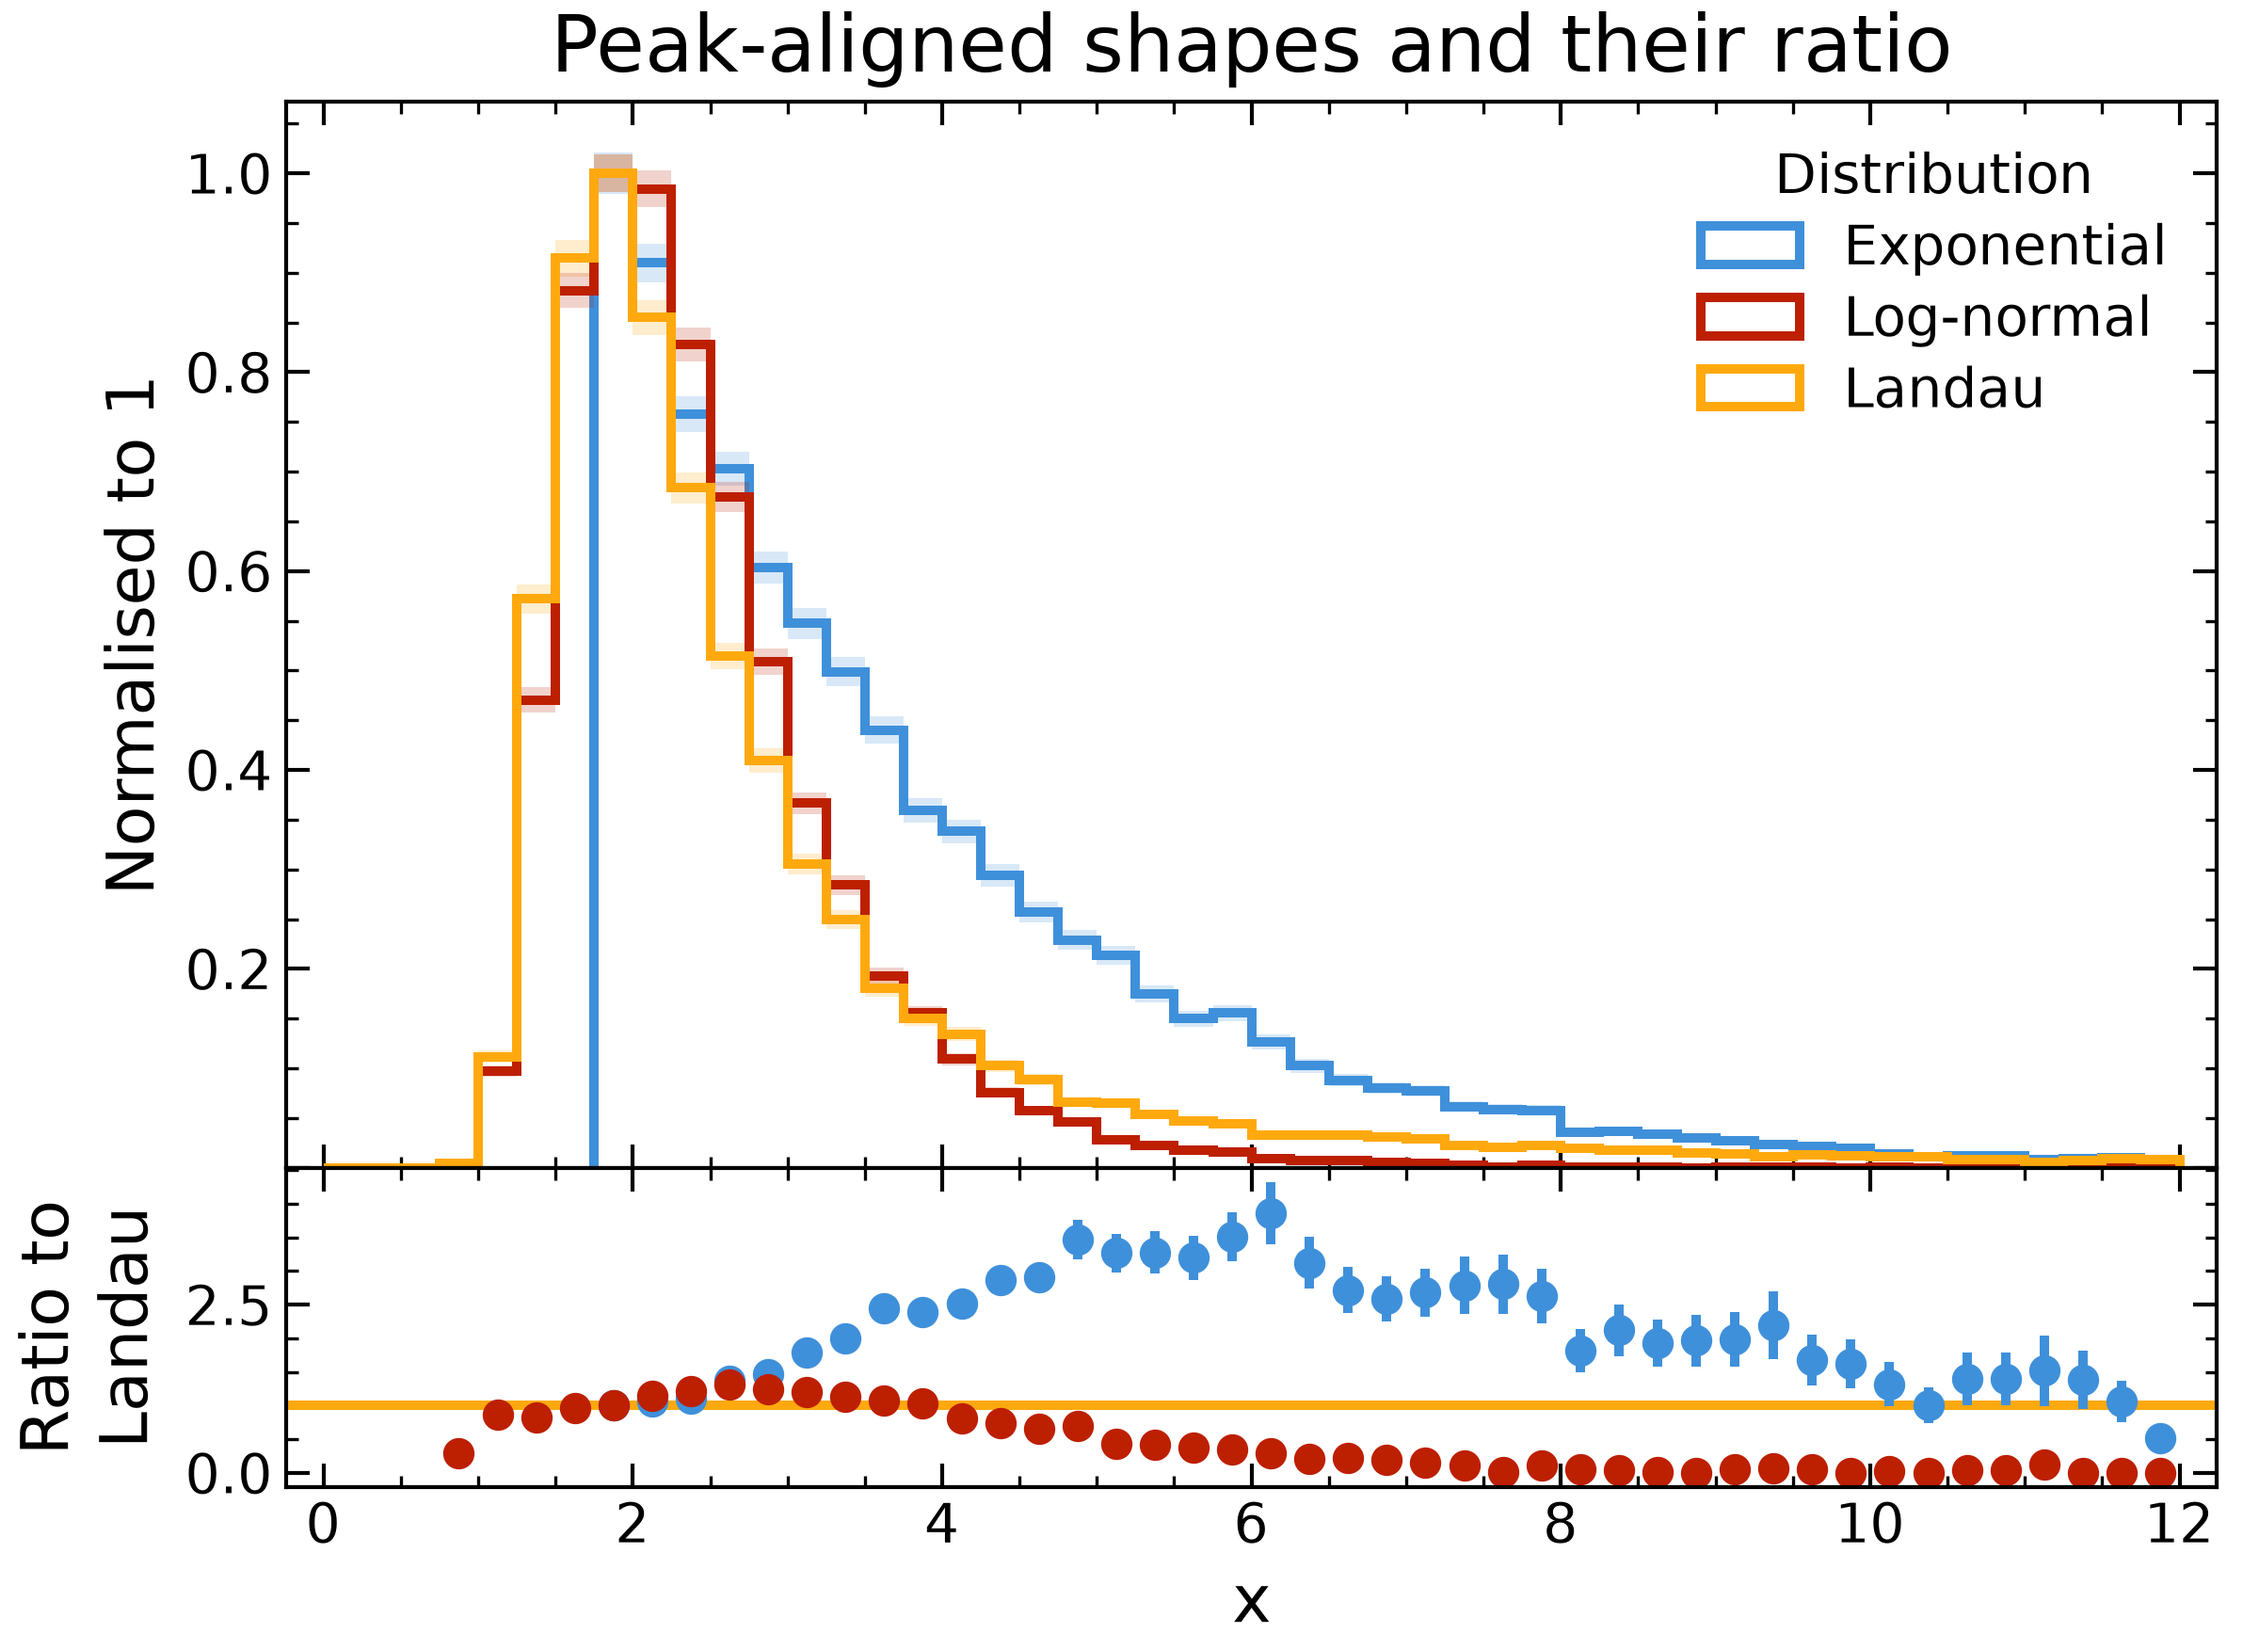
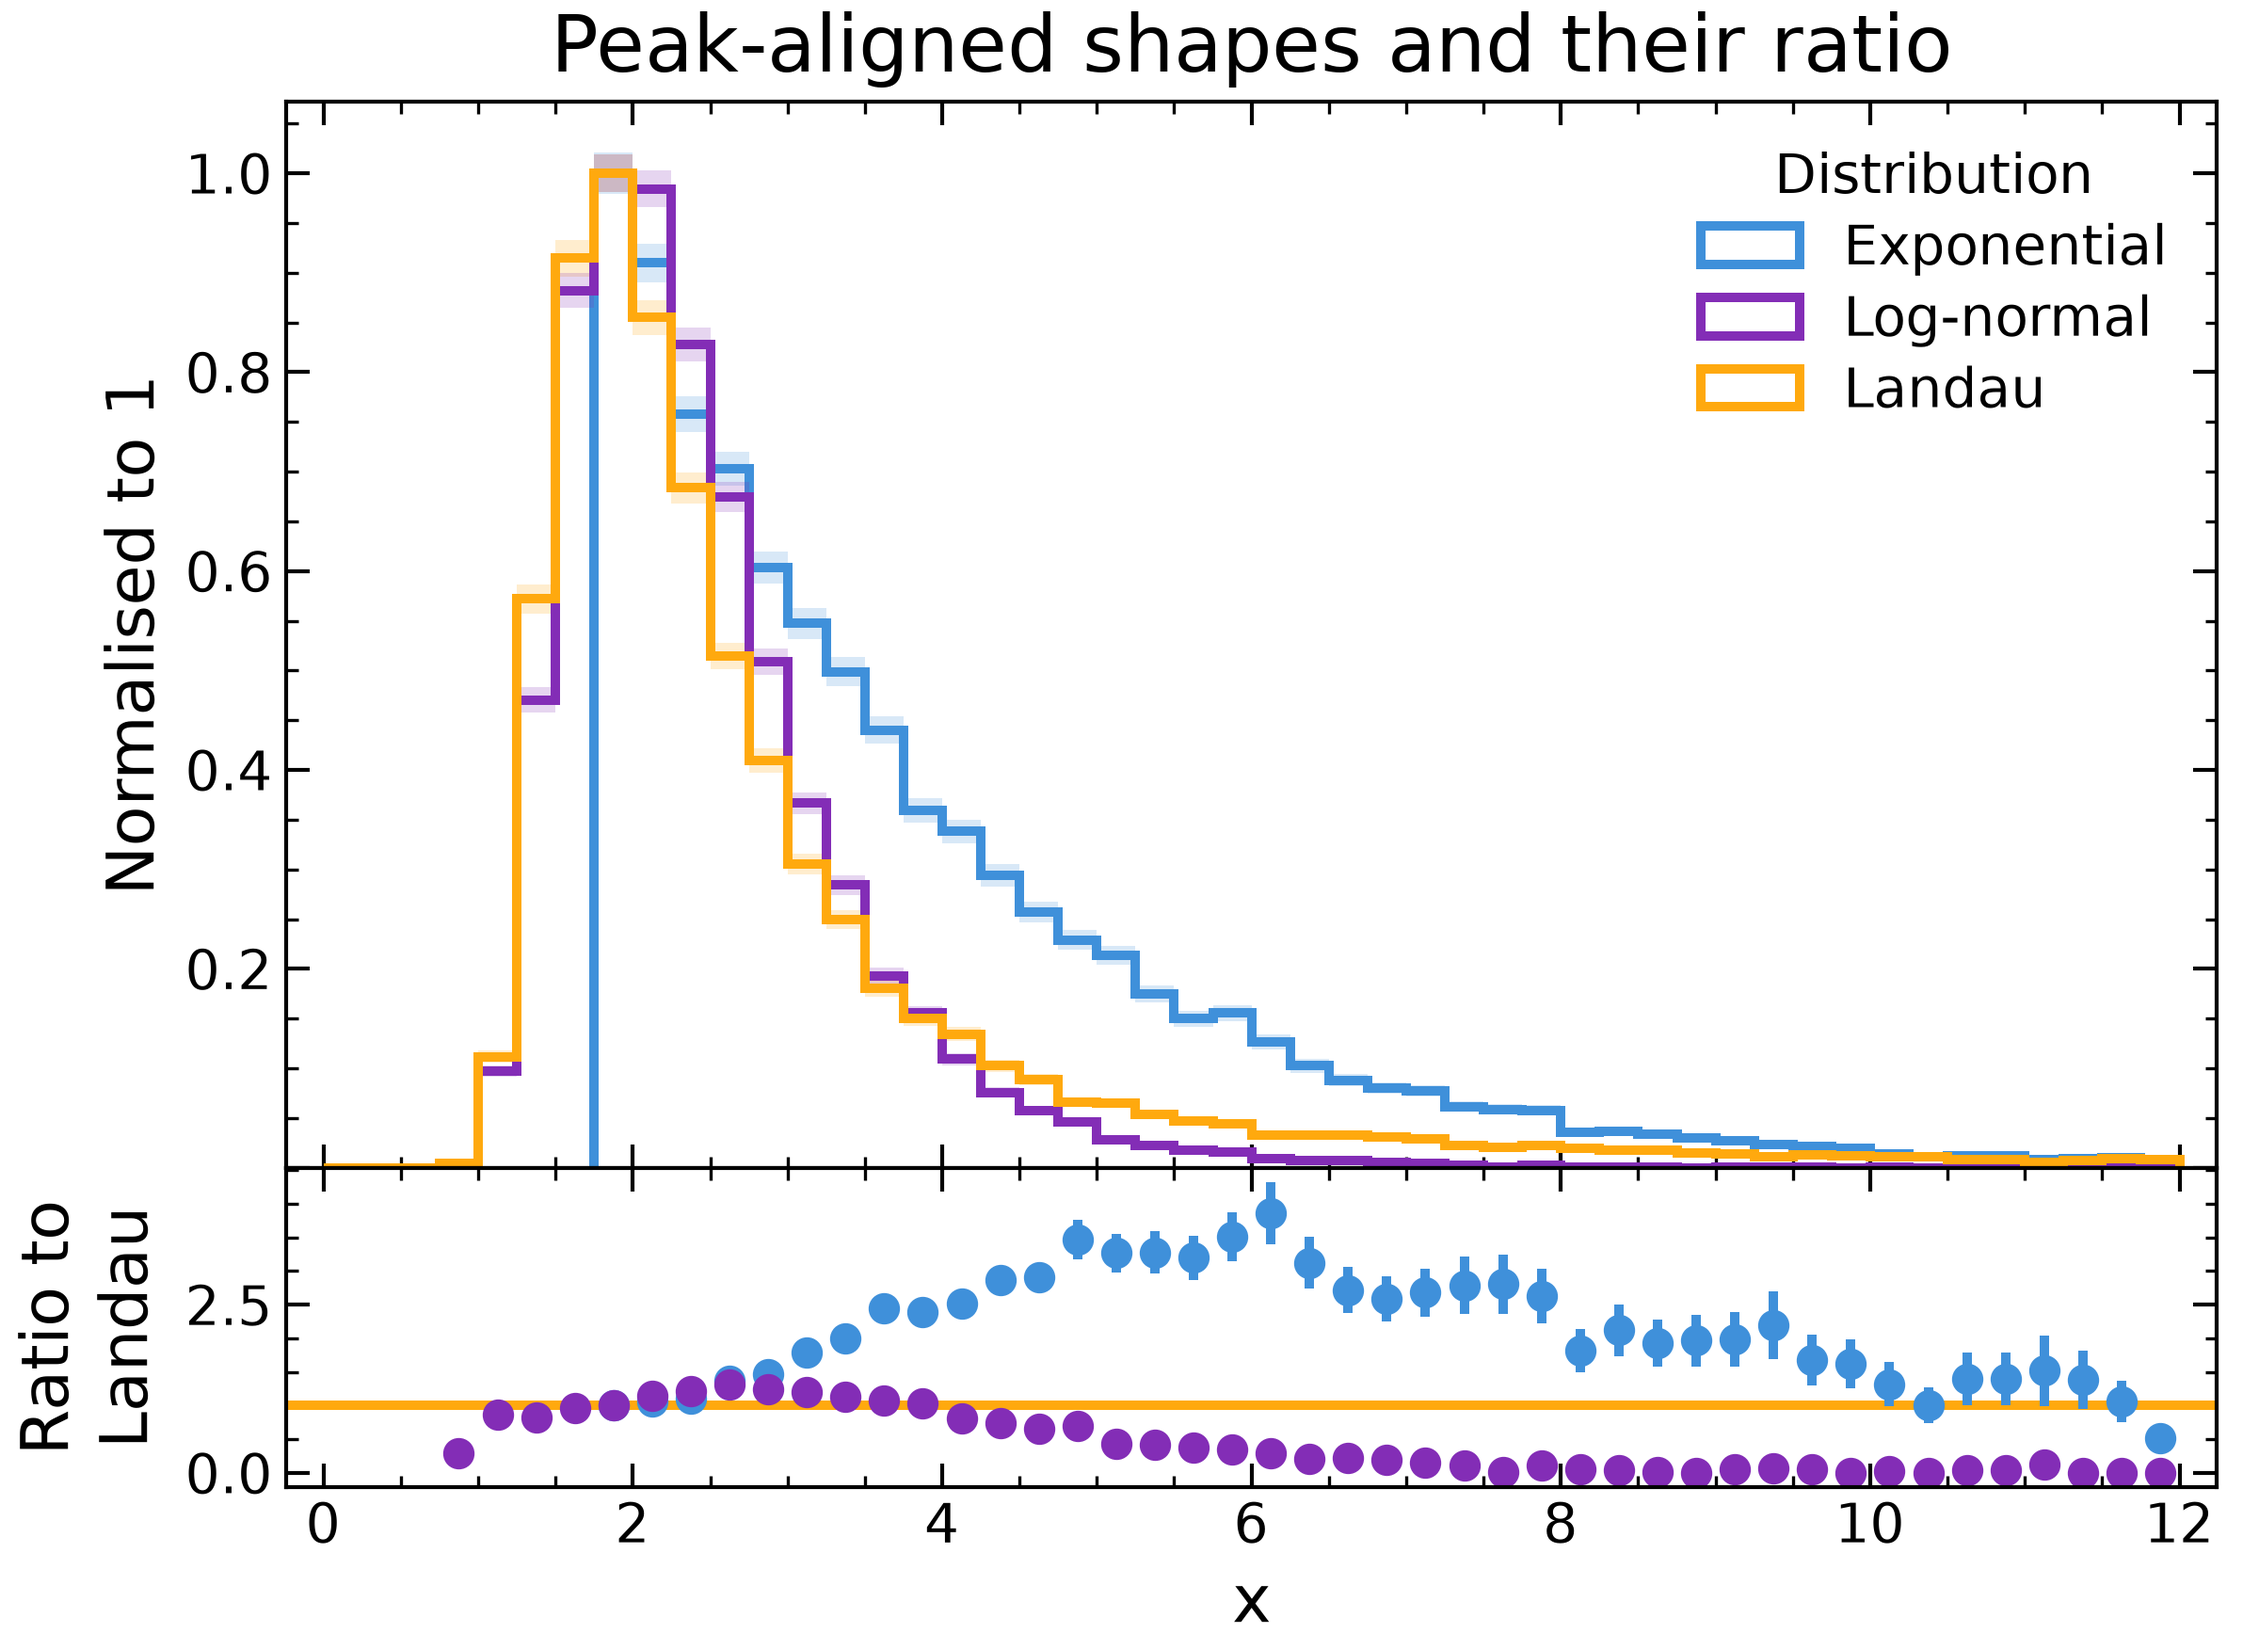
Examples: a curated colors.json (C1); --data_hue values never look up the registry
Data values are ink, so the registry no longer warns that they have no
colour (a binned plot with --data_hue asked about every hue). The example
project registers Sample and Distribution: the values drawn together take
the strong palette slots, and Simulation and Background (never in one
figure) are both blue. Three docs images change colour (hue, palette,
ratio).

diff --git a/tests/test_hue_colors.py b/tests/test_hue_colors.py
@@ -109,3 +109,14 @@ def test_update_includes_contour_hue_columns(make_project, tmp_path):
     plots.mkdir(parents=True, exist_ok=True)
     (plots / "main_scripts.txt").write_text("map --datafile Maps -x X -y Y -z Y --contour --contour_hue Probe\n")
     assert hue_colors.update(dry_run=True) == {"Probe": ["SN"]}
+
+
+def test_data_values_are_never_looked_up(make_project, capsys):
+    """A --data_hue value is ink: no registry colour and no 'has no colour' warning."""
+    from types import SimpleNamespace
+
+    make_project({"Spectrum": _frame(["A"])})
+    args = SimpleNamespace(hue_cmap=None, data_hue=["Data"], iterable_color_mapping=None)
+    (hue_colors.registry_path()).write_text(json.dumps({"Sample": {"A": "C0"}}))
+    assert hue_colors.registered_color(args, "Sample", "Data") is None
+    assert "has no colour" not in capsys.readouterr().out

diff --git a/src/plotipus/hue_colors.py b/src/plotipus/hue_colors.py
@@ -49,10 +49,12 @@ def load(path=None):
 
 def registered_color(args, column, value):
     """Colour of ``value`` of ``column`` in the registry, or None (no
-    registry entry for the column, or --hue_cmap). A value missing from a
-    registered column warns once."""
+    registry entry for the column, --hue_cmap, or a --data_hue value). A
+    value missing from a registered column warns once."""
     if column is None or value is None or getattr(args, "hue_cmap", None):
         return None
+    if str(value) in {str(v) for v in getattr(args, "data_hue", None) or []}:
+        return None  # data are drawn in ink, not in a category colour
     entries = load().get(str(column))
     if entries is None:
         return None

diff --git a/docs/projects.md b/docs/projects.md
@@ -171,7 +171,10 @@ apart), in the order of the sorted data files.
 Values already registered keep their colour, so run it again after adding
 data and commit the file; `--dry_run` prints the new colours only. Edit an
 entry to any colour a mapping takes (`Cn`, a name, hex, `rgb(r,g,b)`,
-`role:name`).
+`role:name`). Curating it pays: give the values drawn together the first
+slots, and let values that never share a figure share a colour.
+`examples/colors.json` does both (Simulation and Background are both
+blue, and the late grey slots go to distributions no hue figure draws).
 
 Plots only read the registry. A `--iterable_color_mapping` (or a plugin
 colour hook) wins over it; `--data_hue` values stay in ink and are left out;
